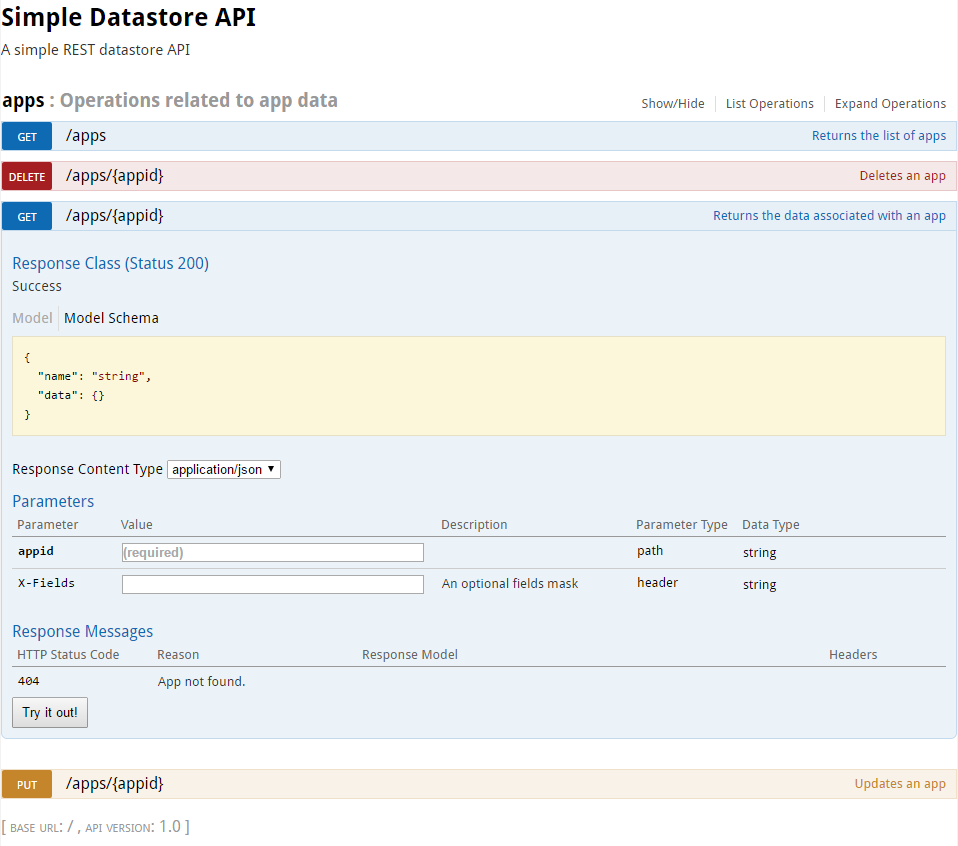
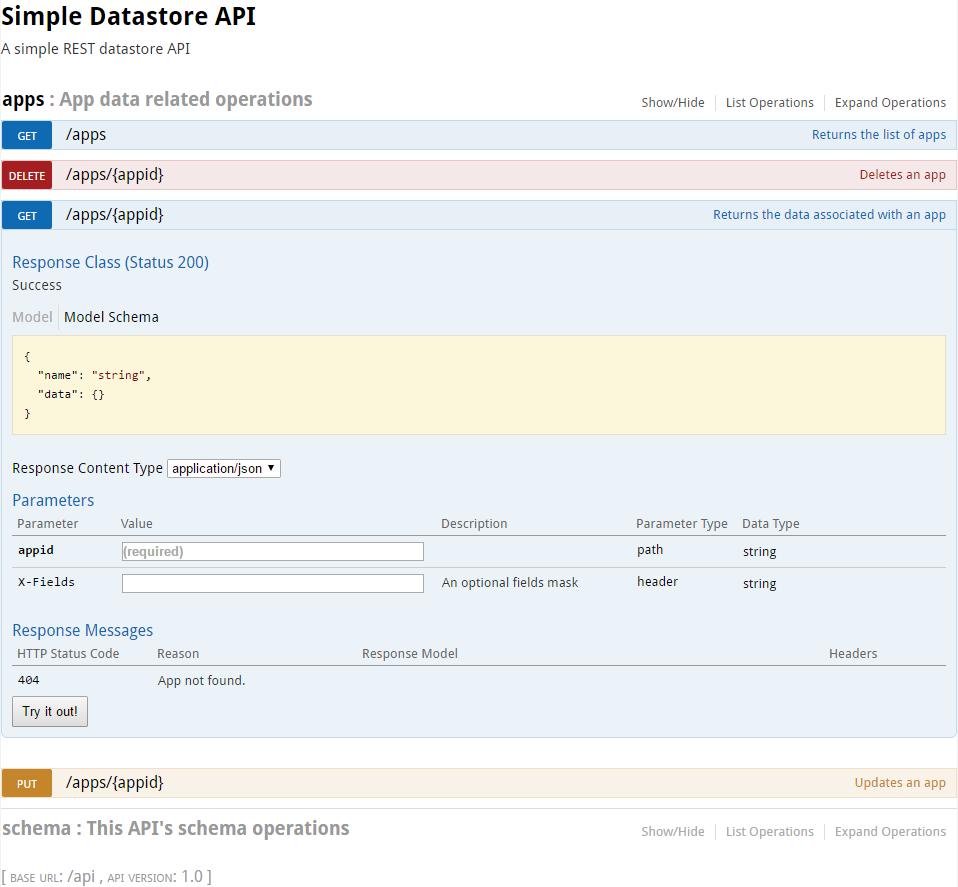
Update readme to cover recent changes

diff --git a/readme.md b/readme.md
@@ -28,9 +28,13 @@ Run the tests by similarly running `python test_microstore.py`.
 
 ## Usage
 
-You can explore the API using Swagger UI by opening the base URL (that is printed to the terminal when you run the server) in your web browser - see an example image of this in action below.
+**NOTE:** All API methods are behind a `/api` base URL (Swagger UI hides this away at the very bottom of the web page).
 
-In short though, you can `PUT` JSON data to `/apps/<your-app-name-here>` as the `data` key of an object:
+You can explore the API using Swagger UI by opening the root URL (that is printed to the terminal when you run the server) in your web browser - see an example image of this in action below.
+
+You can integrate with a client that supports swagger/OpenAPI schemas by just reading the schema directly from `/api/schema`.
+
+In short though, you can `PUT` JSON data to `/api/apps/<your-app-name-here>` as the `data` key of an object:
 
 ```javascript
 {
